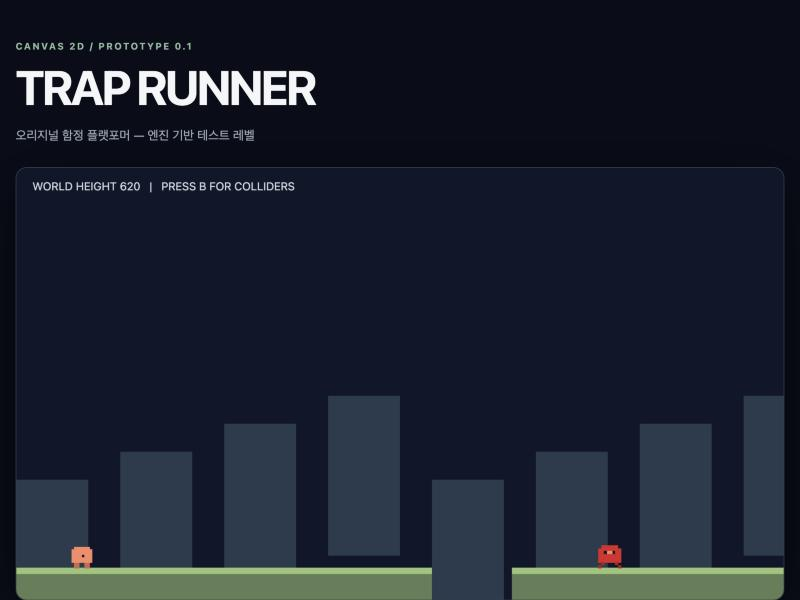
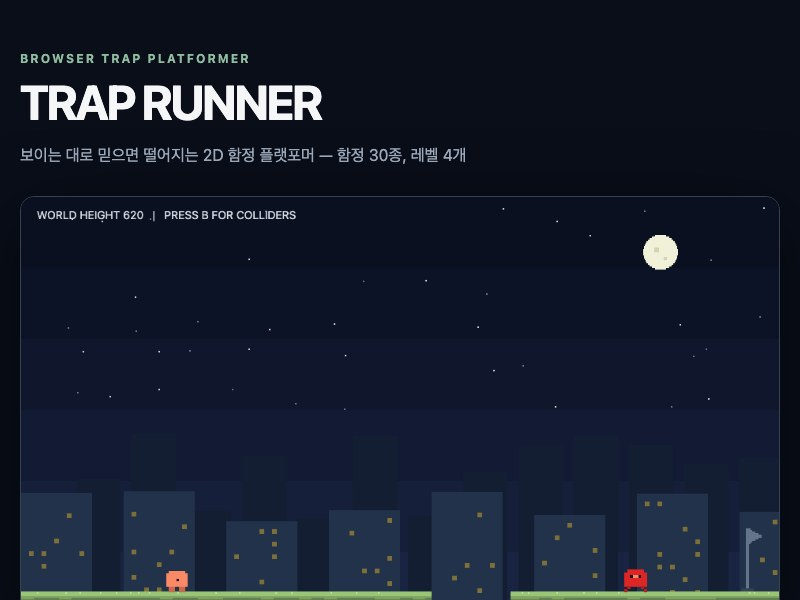
Bring the README up to date with the current game
The status paragraph still described the three-level prototype with 8
troll traps and placeholder shapes. Describe the four levels (with
their real widths), all 30 traps, pixel graphics, sound and effects,
records, keyboard/touch/gamepad input and search metadata; add the
gamepad controls; drop the placeholder-asset note; and recapture the
screenshot with the current graphics.

diff --git a/README.md b/README.md
@@ -1,6 +1,6 @@
 # Trap Runner — 독자적인 함정 플랫포머
 
-React + TypeScript + Canvas 2D 기반의 **독자적인 2D 함정 플랫포머** 스타터입니다. 클래식 플랫폼 게임의 장르적 구조만 참고하며 기존 게임의 캐릭터·레벨·음악·그래픽은 복제하지 않습니다.
+React + TypeScript + Canvas 2D로 만든 **독자적인 2D 함정 플랫포머**입니다. 설치 없이 브라우저에서 바로 플레이합니다. 클래식 플랫폼 게임의 장르적 구조만 참고하며 기존 게임의 캐릭터·레벨·음악·그래픽은 복제하지 않습니다.
 
 **데모:** https://kigpand.github.io/trap-platformer/ (GitHub Pages — 리포지토리 Settings → Pages → Source를 "GitHub Actions"로 설정해야 `master` 푸시마다 자동 배포됩니다. `.github/workflows/deploy.yml` 참고.)
 
@@ -16,7 +16,7 @@ React + TypeScript + Canvas 2D 기반의 **독자적인 2D 함정 플랫포머**
 - `pnpm exec playwright install chromium` (최초 1회)
 - `pnpm test:e2e`
 
-게임 화면 클릭 후 ←/→ 또는 A/D 이동, Space/↑/W 점프, R 재시작, B 충돌 박스 전환, P 일시 정지/재개, M 소리 켜기/끄기, N 클리어 후 다음 레벨, 음량은 슬라이더로 조절(배경 음악은 게임 진행 중에만 재생). 캔버스 아래의 "일시정지/재개"·"재시작"·"음소거" 버튼은 키보드 단축키와 동일하게 동작하며 터치·마우스·스크린 리더로도 쓸 수 있습니다. 터치 기기에서는 캔버스 아래에 ◀/▶ 이동·▲ 점프 버튼이 나타납니다. 우측 HUD로 진행 상태와 이번 런의 시간(TIME)·최고 기록(BEST, 브라우저에 저장)을 확인하고, 사망·클리어는 화면에 보이지 않는 `aria-live` 영역으로도 알립니다. 탭이 백그라운드로 가면 자동으로 일시 정지되며, 돌아와도 자동으로 재개되지 않습니다(P 또는 버튼으로 직접 재개).
+게임 화면 클릭 후 ←/→ 또는 A/D 이동, Space/↑/W 점프, R 재시작, B 충돌 박스 전환, P 일시 정지/재개, M 소리 켜기/끄기, N 클리어 후 다음 레벨, 음량은 슬라이더로 조절(배경 음악은 게임 진행 중에만 재생). 캔버스 아래의 "일시정지/재개"·"재시작"·"음소거" 버튼은 키보드 단축키와 동일하게 동작하며 터치·마우스·스크린 리더로도 쓸 수 있습니다. 터치 기기에서는 캔버스 아래에 ◀/▶ 이동·▲ 점프 버튼이 나타납니다. 게임패드(표준 배치)도 지원합니다: 방향 패드·왼쪽 스틱 이동, A·↑ 점프, Start 일시 정지, Select 재시작, Y 다음 레벨. 우측 HUD로 진행 상태와 이번 런의 시간(TIME)·최고 기록(BEST, 브라우저에 저장)을 확인하고, 사망·클리어는 화면에 보이지 않는 `aria-live` 영역으로도 알립니다. 탭이 백그라운드로 가면 자동으로 일시 정지되며, 돌아와도 자동으로 재개되지 않습니다(P 또는 버튼으로 직접 재개).
 
 ## AI 협업
 
@@ -31,14 +31,23 @@ React + TypeScript + Canvas 2D 기반의 **독자적인 2D 함정 플랫포머**
 
 - `src/game/` — React 의존 없는 고정 시간 간격 게임 시뮬레이션 및 Canvas 2D
 - `src/components/` — React HUD / 화면 마운트
-- `tests/unit/` — 충돌·물리 규칙 테스트
+- `tests/unit/` — 충돌·물리 규칙, 함정·레벨 해법(입력 시간 여유 포함), 렌더링(위장 함정이 일반 지형과 같게 그려지는지) 테스트
 - `tests/e2e/` — 실제 브라우저 연동 테스트
 
-현재 플레이 가능한 것은 **프로토타입**입니다: 시작부터 목표까지 이어지는 레벨 3개(쉬움 4,000px·보통 5,100px·어려움 5,600px, 클리어 후 "다음 레벨"로 진행, 마지막에 완료 화면), 원인을 알면 피할 수 있는 트롤 함정 8종(사라지는 땅·투명 블록·도망가는 발판·떨어지는 천장·솟아오르는 가시·가짜 체크포인트·도망가는 목표·하늘에서 쏟아지는 적), 함정 5종 전체(숨겨진 블록·낙하하는 발판·갑자기 출현하는 적·가짜 안전지대·조건부 함정 트리거), 왕복 이동하는 적, 중간 체크포인트, 플레이어·적 픽셀 스프라이트와 걷기 애니메이션, 디버그 오버레이(충돌 박스·FPS·속도). 효과음·배경 음악(Web Audio 합성)과 음소거·음량 조절, 최고 기록 저장, 터치 기기용 이동·점프 버튼도 포함합니다. 지형·소품·배경도 코드로 그린 픽셀 그림입니다. 진행 상황은 `docs/roadmap.md`와 `docs/traps-spec.md`의 "구현 현황"을 참조하세요.
+현재 플레이 가능한 내용:
+
+- **레벨 4개**를 이어서 진행합니다: 쉬움 12,000px · 보통 15,300px · 어려움 16,800px · 지옥 18,600px(함정 30종을 셋씩 겹친 마지막 레벨). 클리어 후 "다음 레벨"로 넘어가고, 마지막에는 레벨별 최고 기록을 보여 주는 완료 화면이 나옵니다.
+- **함정 30종**: 처음엔 당할 수밖에 없지만 원인을 알면 피할 수 있습니다. 죽으면 원인 영역을 경고색으로 표시하고 놀리는 문구를 띄웁니다. 함정 목록과 동작 규칙은 `docs/traps-spec.md`에 있습니다.
+- 왕복 이동하는 적, 중간 체크포인트(죽으면 체크포인트에서 이어 감), 디버그 오버레이(충돌 박스·FPS·속도)
+- 코드로 그린 픽셀 그래픽(외부 이미지 에셋 없음): 플레이어·적 스프라이트와 걷기 애니메이션, 땅·블록 질감, 깃발·가시·표지판, 시차로 움직이는 밤 도시 배경. 바닥으로 위장한 함정은 일반 바닥과 픽셀 하나까지 똑같이 그립니다.
+- Web Audio로 합성한 효과음·함정 효과음·배경 음악, 음소거·음량 조절, 화면 흔들림·파편 연출(운영체제의 "동작 줄이기" 설정을 따름)
+- 레벨별 최고 기록 저장(다른 탭에서 갱신해도 바로 반영), 키보드·터치·게임패드 입력
+- 검색 노출용 메타 태그·사이트맵·미리보기 이미지
+
+진행 상황은 `docs/roadmap.md`와 `docs/traps-spec.md`의 "구현 현황"을 참조하세요.
 
 ## 설계상 주의
 
 - 최대 이동량을 타일 크기보다 작게 쪼개서 관통 위험을 줄이는 임시 구현입니다. 고속 충돌 완전 보장은 아닙니다. 기능 확장 전 `physics-spec.md`의 고속 이동 요건을 검증하세요.
-- 캐릭터 도형과 타일 색상은 임시 에셋입니다.
 - **레벨에 솔리드·함정·적을 새로 배치할 때는 반드시 `docs/physics-spec.md`의 "레벨 배치 제약"을 먼저 확인하세요** (최대 점프 높이, 간격 통과 가능 여부를 추론이 아닌 테스트로 검증해야 하는 이유, 단차 보조 없음 등). 이 제약을 무시해 도달 불가능한 함정이 배치된 적이 있습니다(Codex 리뷰로 발견, 커밋 `5dd77ac`에서 수정).
 - 자세한 과제 및 우선순위는 `docs/roadmap.md`를 참조하세요.
